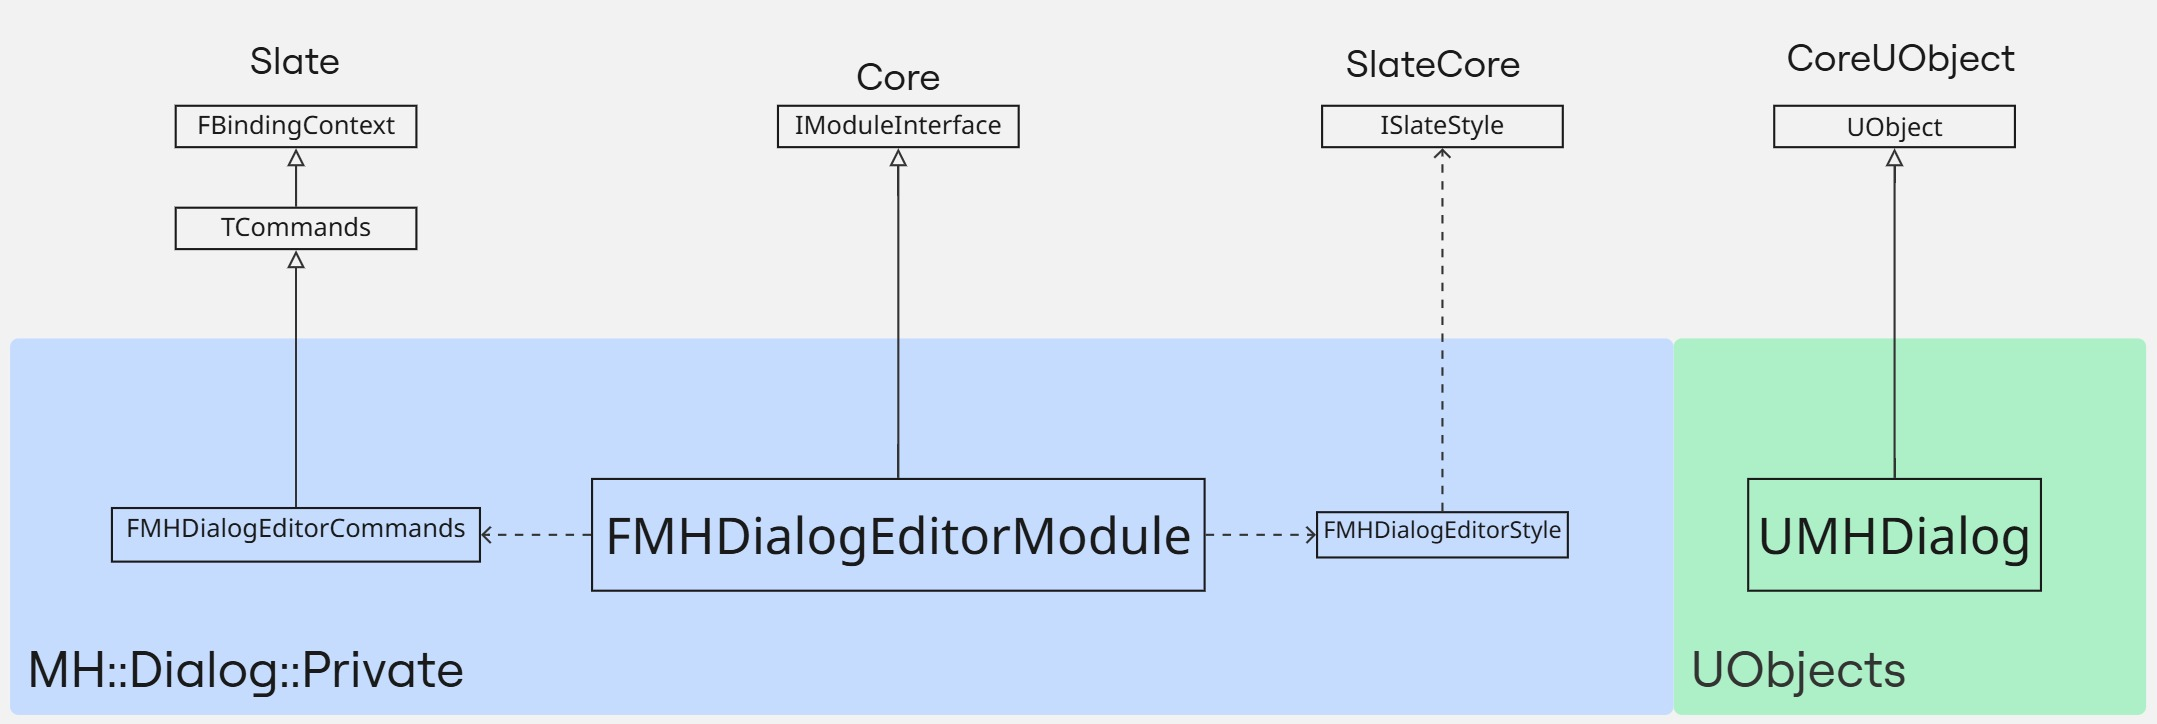
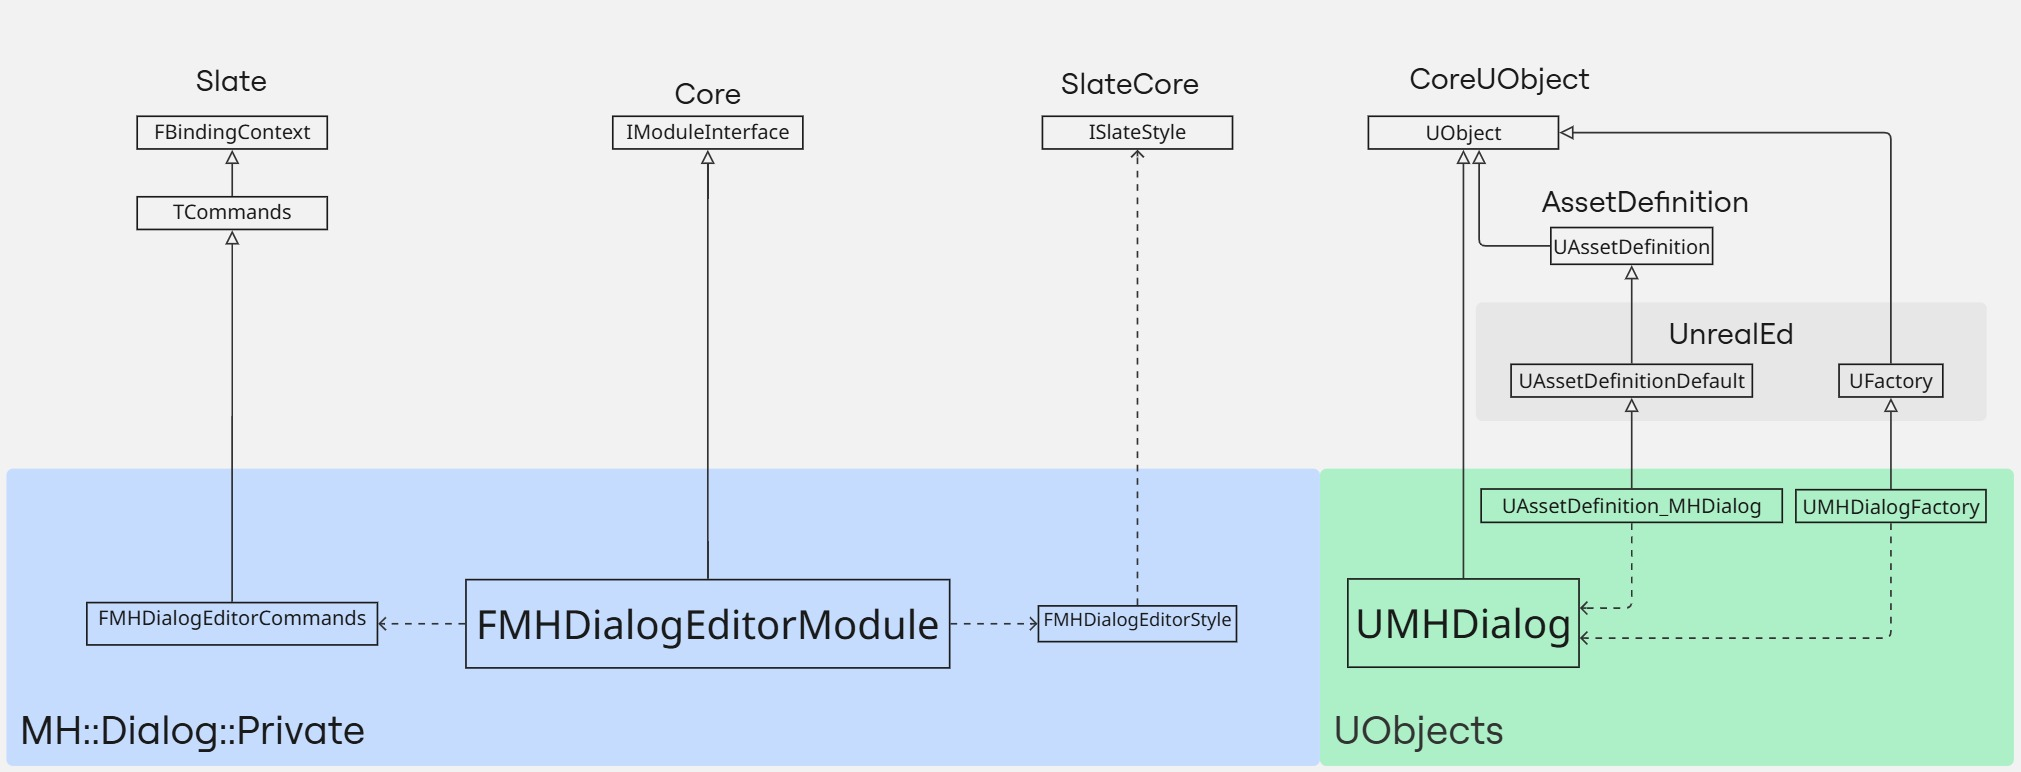
register MHDialog as asset

diff --git a/Source/MHDialogEditor/Private/MHDialogEditorModule.cpp b/Source/MHDialogEditor/Private/MHDialogEditorModule.cpp
@@ -6,7 +6,6 @@
 #include "MHDialogEditorCommands.h"
 #include "MHDialogEditorLog.h"
 #include "MHDialogEditorStyle.h"
-#include "ToolMenus.h"
 
 DEFINE_LOG_CATEGORY(LogMHDialogEditor)
 
@@ -20,45 +19,14 @@ void FMHDialogEditorModule::StartupModule()
 	FMHDialogEditorStyle::ReloadTextures();
 
 	FMHDialogEditorCommands::Register();
-
-	PluginCommands = MakeShareable(new FUICommandList);
-
-	PluginCommands->MapAction(FMHDialogEditorCommands::Get().OpenPluginWindow,
-							  FExecuteAction::CreateRaw(this, &FMHDialogEditorModule::PluginButtonClicked),
-							  FCanExecuteAction());
-
-	UToolMenus::RegisterStartupCallback(FSimpleMulticastDelegate::FDelegate::CreateRaw(this, &FMHDialogEditorModule::RegisterMenus));
 }
 
 void FMHDialogEditorModule::ShutdownModule()
 {
-	UToolMenus::UnRegisterStartupCallback(this);
-	UToolMenus::UnregisterOwner(this);
 	FMHDialogEditorStyle::Shutdown();
 	FMHDialogEditorCommands::Unregister();
 }
 
-void FMHDialogEditorModule::PluginButtonClicked()
-{
-	UMHDialog* Dialog = NewObject<UMHDialog>();
-	UE_LOG(LogMHDialogEditor, Display, TEXT("Dialog.Topic is a %s"), *Dialog->Topic.ToString());
-}
-
-void FMHDialogEditorModule::RegisterMenus()
-{
-	FToolMenuOwnerScoped OwnerScoped(this);
-	{
-		UToolMenu* ToolbarMenu = UToolMenus::Get()->ExtendMenu("LevelEditor.LevelEditorToolBar.PlayToolBar");
-		{
-			FToolMenuSection& Section = ToolbarMenu->FindOrAddSection("PluginTools");
-			{
-				FToolMenuEntry& Entry =
-					Section.AddEntry(FToolMenuEntry::InitToolBarButton(FMHDialogEditorCommands::Get().OpenPluginWindow));
-				Entry.SetCommandList(PluginCommands);
-			}
-		}
-	}
-}
 IMPLEMENT_MODULE(FMHDialogEditorModule, MHDialogEditor)
 }  // namespace MH::Dialog::Private
 #undef LOCTEXT_NAMESPACE

diff --git a/Source/MHDialogEditor/Private/Asset/AssetDefinition_MHDialog.cpp b/Source/MHDialogEditor/Private/Asset/AssetDefinition_MHDialog.cpp
@@ -1,0 +1,38 @@
+// created by MetalHeart
+
+#include "Asset/AssetDefinition_MHDialog.h"
+
+#include "MHDialog.h"
+#include "MHDialogEditorColors.h"
+#include "MHDialogEditorLog.h"
+
+#define LOCTEXT_NAMESPACE "UAssetDefinition_MHDialog"
+
+FText UAssetDefinition_MHDialog::GetAssetDisplayName() const
+{
+	return LOCTEXT("UAssetDefinition_Dialog", "Dialogue Asset");
+}
+
+FLinearColor UAssetDefinition_MHDialog::GetAssetColor() const
+{
+	return MH::Dialog::Private::Colors::Asset::Default;
+}
+
+TSoftClassPtr<> UAssetDefinition_MHDialog::GetAssetClass() const
+{
+	return UMHDialog::StaticClass();
+}
+
+TConstArrayView<FAssetCategoryPath> UAssetDefinition_MHDialog::GetAssetCategories() const
+{
+	static const FAssetCategoryPath Categories[] = {FAssetCategoryPath(LOCTEXT("Category", "Dialogue System"))};
+	return Categories;
+}
+
+EAssetCommandResult UAssetDefinition_MHDialog::OpenAssets(const FAssetOpenArgs& OpenArgs) const
+{
+	EAssetCommandResult Result = EAssetCommandResult::Unhandled;
+
+	return Result;
+}
+#undef LOCTEXT_NAMESPACE

diff --git a/Source/MHDialogEditor/Private/Asset/AssetDefinition_MHDialog.h b/Source/MHDialogEditor/Private/Asset/AssetDefinition_MHDialog.h
@@ -1,0 +1,22 @@
+// created by MetalHeart
+
+#pragma once
+
+#include "AssetDefinitionDefault.h"
+
+#include "AssetDefinition_MHDialog.generated.h"
+
+UCLASS()
+class UAssetDefinition_MHDialog : public UAssetDefinitionDefault
+{
+	GENERATED_BODY()
+
+  protected:
+	//~ Begin UAssetDefinition interface
+	virtual FText GetAssetDisplayName() const override;
+	virtual FLinearColor GetAssetColor() const override;
+	virtual TSoftClassPtr<UObject> GetAssetClass() const override;
+	virtual TConstArrayView<FAssetCategoryPath> GetAssetCategories() const override;
+	virtual EAssetCommandResult OpenAssets(const FAssetOpenArgs& OpenArgs) const override;
+	//~ End UAssetDefinition interface
+};

diff --git a/Source/MHDialogEditor/Private/Asset/MHDialogFactory.h b/Source/MHDialogEditor/Private/Asset/MHDialogFactory.h
@@ -1,0 +1,29 @@
+// created by MetalHeart
+
+#pragma once
+
+#include "CoreMinimal.h"
+#include "Factories/Factory.h"
+
+#include "MHDialogFactory.generated.h"
+
+/**
+ *
+ */
+UCLASS()
+class UMHDialogFactory : public UFactory
+{
+	GENERATED_BODY()
+
+  public:
+	UMHDialogFactory(const FObjectInitializer& ObjectInitializer);
+
+	//~ Begin UFactory interface
+	virtual UObject* FactoryCreateNew(UClass* Class,  //
+									  UObject* InParent,
+									  FName Name,
+									  EObjectFlags Flags,
+									  UObject* Context,
+									  FFeedbackContext* Warn) override;
+	//~ End UFactory interface
+};

diff --git a/Source/MHDialogEditor/Private/Asset/MHDialogFactory.cpp b/Source/MHDialogEditor/Private/Asset/MHDialogFactory.cpp
@@ -1,0 +1,22 @@
+// created by MetalHeart
+
+#include "Asset/MHDialogFactory.h"
+
+#include "MHDialog.h"
+
+UMHDialogFactory::UMHDialogFactory(const FObjectInitializer& ObjectInitializer) : Super(ObjectInitializer)
+{
+	bCreateNew	   = true;
+	bEditAfterNew  = true;
+	SupportedClass = UMHDialog::StaticClass();
+}
+
+UObject* UMHDialogFactory::FactoryCreateNew(UClass* Class,	//
+											UObject* InParent,
+											FName Name,
+											EObjectFlags Flags,
+											UObject* Context,
+											FFeedbackContext* Warn)
+{
+	return NewObject<UMHDialog>(InParent, Name, Flags);
+}

diff --git a/Source/MHDialogEditor/MHDialogEditor.Build.cs b/Source/MHDialogEditor/MHDialogEditor.Build.cs
@@ -36,10 +36,12 @@ public class MHDialogEditor : ModuleRules
             {
                 "MHDialog",
                 "Projects",
-				"ToolMenus",
+                "ToolMenus",
 				"CoreUObject",
-				"Slate",
+                "Slate",
 				"SlateCore",
+                "UnrealEd",
+                "AssetDefinition",
 				// ... add private dependencies that you statically link with here ...	
 			}
 			);

diff --git a/Source/MHDialogEditor/Private/MHDialogEditorModule.h b/Source/MHDialogEditor/Private/MHDialogEditorModule.h
@@ -13,11 +13,5 @@ class FMHDialogEditorModule : public IModuleInterface
 	virtual void StartupModule() override;
 	virtual void ShutdownModule() override;
 	//~ End IModuleInterface interface
-  private:
-	TSharedPtr<class FUICommandList> PluginCommands;
-
-	void PluginButtonClicked();
-	void RegisterMenus();
 };
-
 }  // namespace MH::Dialog::Private

diff --git a/Source/MHDialogEditor/Private/MHDialogEditorColors.h b/Source/MHDialogEditor/Private/MHDialogEditorColors.h
@@ -1,0 +1,13 @@
+// created by MetalHeart
+
+#pragma once
+
+#include "Math/Color.h"
+
+namespace MH::Dialog::Private::Colors
+{
+namespace Asset
+{
+const FLinearColor Default(FColor::Magenta);
+}  // namespace Asset
+}  // namespace MH::Dialog::Private::Colors
